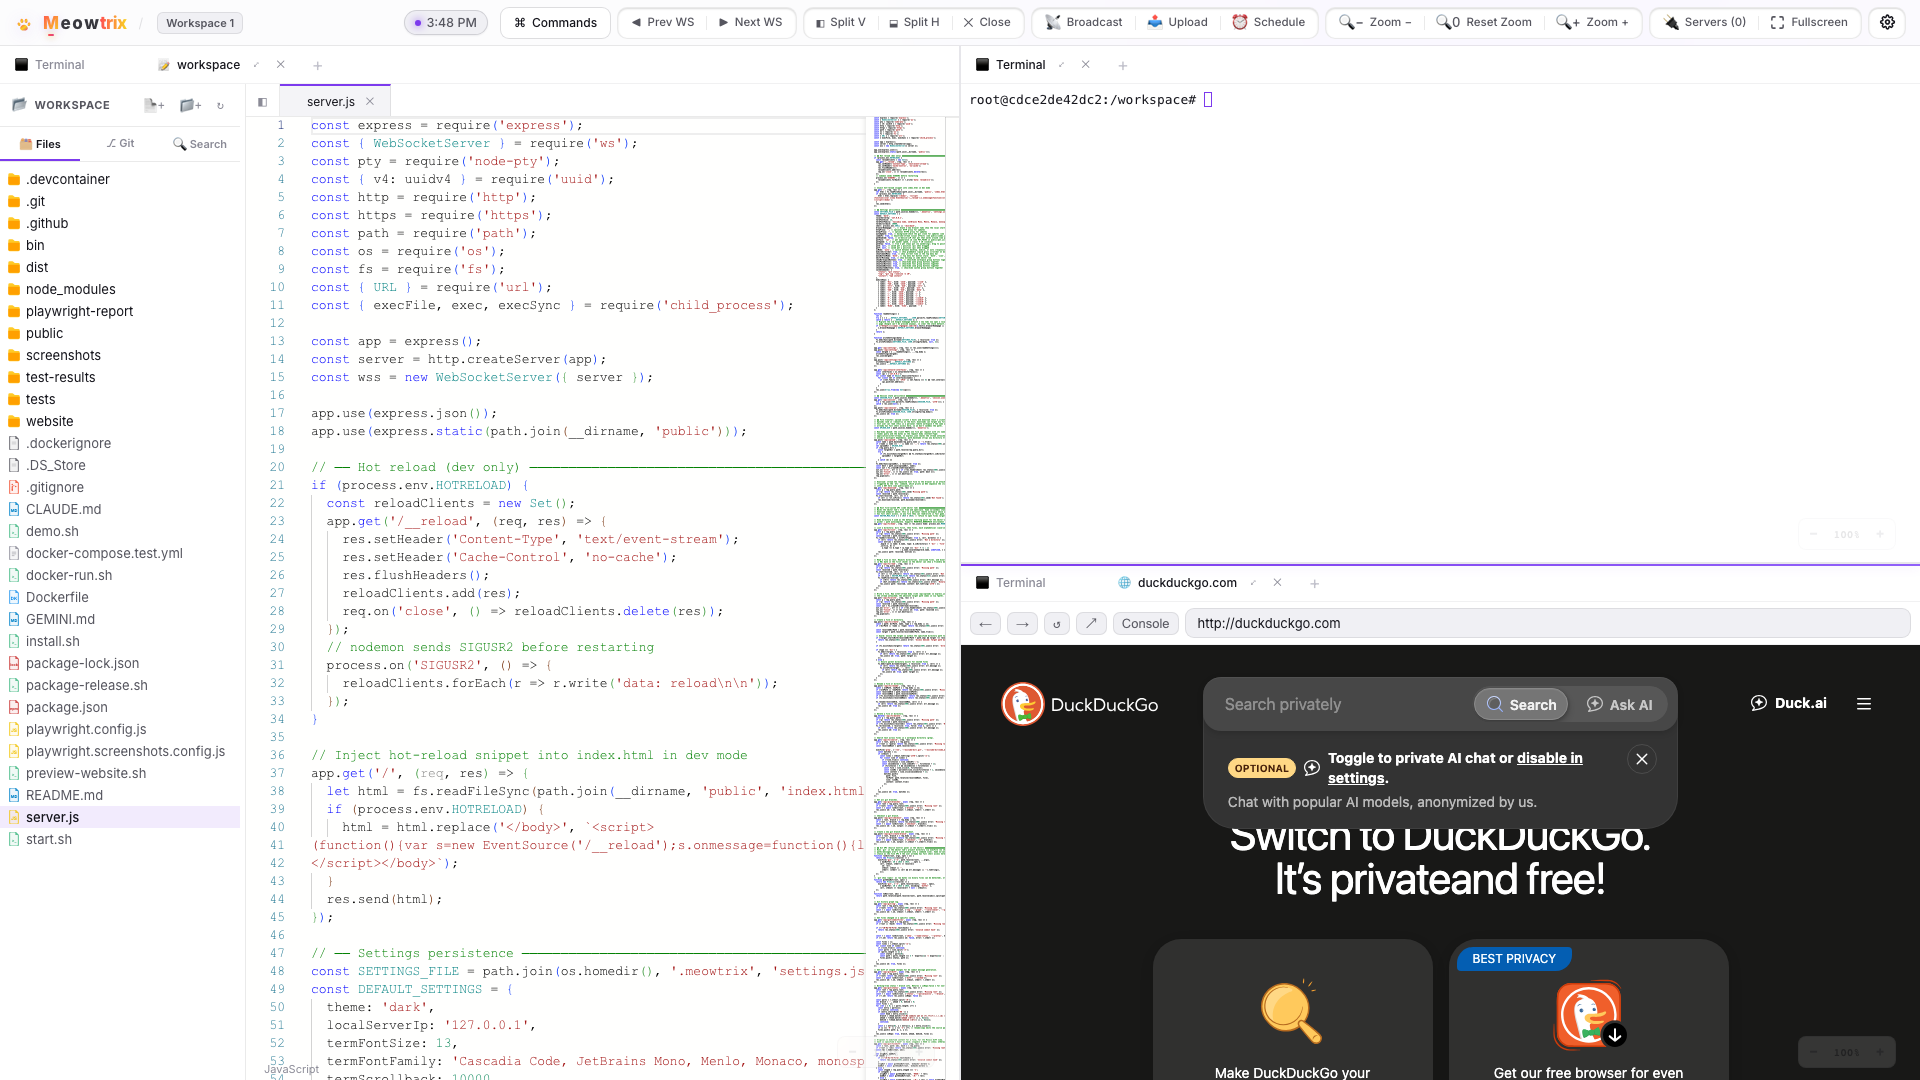
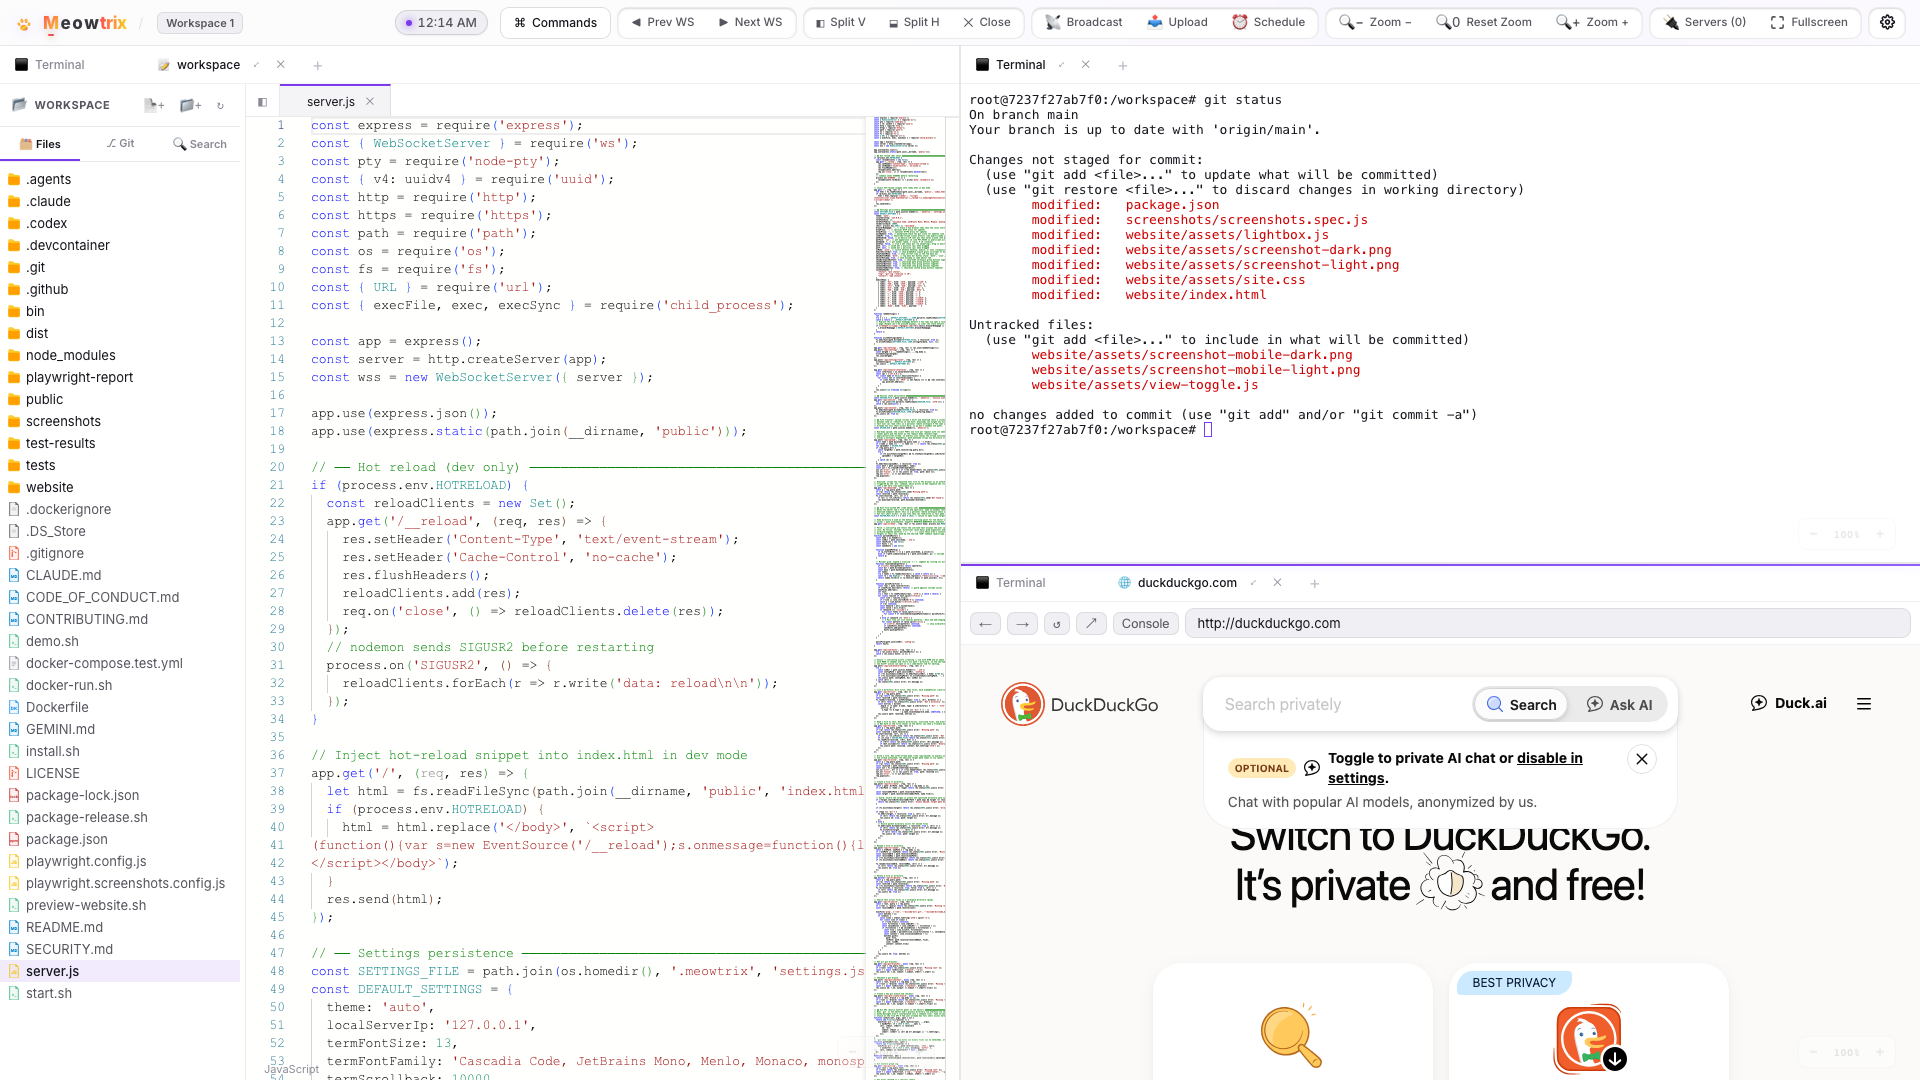
update

diff --git a/website/assets/site.css b/website/assets/site.css
@@ -216,9 +216,128 @@ code, pre, kbd {
 .btn-ghost { background: var(--bg3); color: var(--text); border-color: var(--border3); }
 .btn-ghost:hover { background: var(--bg4); color: var(--text); transform: translateY(-2px); }
 
+/* ── Hero showcase: desktop ↔ mobile preview with a device toggle ─────────────── */
+.hero-showcase { max-width: 1000px; margin: 56px auto 0; }
+
+.view-toggle {
+  display: inline-flex; gap: 4px; margin: 0 auto 28px;
+  padding: 4px; border-radius: 999px;
+  background: var(--bg2); border: 1px solid var(--border);
+}
+.hero-showcase { text-align: center; }
+.view-toggle-btn {
+  display: inline-flex; align-items: center; gap: 7px;
+  padding: 8px 18px; border-radius: 999px;
+  background: transparent; border: none; cursor: pointer;
+  color: var(--text2); font-family: inherit; font-size: 13.5px; font-weight: 600;
+  letter-spacing: -0.01em; transition: all 0.18s var(--ease);
+}
+.view-toggle-btn .vt-ico { font-size: 14px; line-height: 1; }
+.view-toggle-btn:hover { color: var(--text); }
+.view-toggle-btn.active {
+  background: var(--accent); color: #fff;
+  box-shadow: 0 4px 14px var(--accent2);
+}
+
+/* Toggle which device preview is shown. */
+.hero-showcase[data-view="desktop"] .phone-frame { display: none; }
+.hero-showcase[data-view="mobile"] .browser-mockup { display: none; }
+
+/* ── Phone frame (mobile preview) ─────────────────────────────────────────────── */
+.phone-frame {
+  position: relative; margin: 0 auto; text-align: left;
+  width: 300px; max-width: 80vw;
+  aspect-ratio: 390 / 844;
+  padding: 12px; border-radius: 46px;
+  background: linear-gradient(145deg, #2a2d33, #16181c);
+  border: 1px solid var(--border3);
+  box-shadow:
+    0 30px 90px var(--shadow), 0 0 0 1px var(--border2),
+    inset 0 0 0 2px rgba(255,255,255,0.04);
+  transition: transform 0.5s cubic-bezier(0.16, 1, 0.3, 1), box-shadow 0.5s cubic-bezier(0.16, 1, 0.3, 1);
+}
+.phone-frame:hover {
+  transform: translateY(-8px);
+  box-shadow: 0 45px 120px var(--shadow), 0 0 0 1px var(--accent-soft);
+}
+.phone-screen {
+  position: relative; width: 100%; height: 100%;
+  border-radius: 34px; overflow: hidden;
+  background: var(--bg2);
+  display: flex; flex-direction: column;
+}
+
+/* Phone status bar (clock + signal/battery) */
+.mob-statusbar {
+  display: flex; align-items: center; justify-content: space-between;
+  flex-shrink: 0; padding: 7px 22px 3px;
+  background: var(--bg3); color: var(--text);
+  font-size: 11px; font-weight: 700; letter-spacing: 0.02em;
+}
+.mob-status-icons { display: flex; align-items: center; gap: 6px; }
+.mob-signal { display: inline-flex; align-items: flex-end; gap: 1.5px; height: 9px; }
+.mob-signal i { width: 2.5px; background: var(--text); border-radius: 1px; }
+.mob-signal i:nth-child(1) { height: 4px; }
+.mob-signal i:nth-child(2) { height: 6px; }
+.mob-signal i:nth-child(3) { height: 8px; }
+.mob-signal i:nth-child(4) { height: 9px; }
+.mob-5g { font-size: 10px; }
+.mob-battery {
+  position: relative; width: 20px; height: 10px;
+  border: 1.2px solid var(--text); border-radius: 3px; opacity: 0.9;
+}
+.mob-battery::before {
+  content: ''; position: absolute; inset: 1.5px;
+  width: 70%; background: var(--text); border-radius: 1px;
+}
+.mob-battery::after {
+  content: ''; position: absolute; top: 50%; right: -3px; transform: translateY(-50%);
+  width: 1.5px; height: 4px; background: var(--text); border-radius: 0 1px 1px 0; opacity: 0.7;
+}
+
+/* Mobile browser address bar */
+.mob-urlbar {
+  display: flex; align-items: center; gap: 7px;
+  flex-shrink: 0; margin: 6px 10px;
+  padding: 7px 12px; border-radius: 999px;
+  background: var(--bg4); border: 1px solid var(--border);
+  font-size: 11px; color: var(--text2);
+}
+.mob-lock { font-size: 9px; color: var(--green); opacity: 0.85; }
+.mob-url {
+  flex-grow: 1; text-align: center;
+  overflow: hidden; text-overflow: ellipsis; white-space: nowrap;
+  letter-spacing: -0.01em;
+}
+.mob-reload { font-size: 12px; color: var(--text3); }
+
+/* App viewport — the embedded Meowtrix screenshot */
+.mob-viewport {
+  position: relative; flex: 1; min-height: 0;
+  overflow: hidden; cursor: zoom-in;
+  background: var(--bg);
+}
+.mob-viewport img {
+  position: absolute; inset: 0;
+  width: 100%; height: 100%; display: block;
+  object-fit: cover; object-position: top center;
+}
+
+/* Browser bottom toolbar */
+.mob-tabbar {
+  display: flex; align-items: center; justify-content: space-around;
+  flex-shrink: 0; padding: 9px 14px 11px;
+  background: var(--bg3); border-top: 1px solid var(--border2);
+  color: var(--text2); font-size: 17px;
+}
+.mob-nav-btn { opacity: 0.75; line-height: 1; }
+.mob-tabs-btn {
+  width: 13px; height: 13px; border: 1.6px solid currentColor; border-radius: 3px;
+}
+
 /* browser mockup in hero */
 .browser-mockup {
-  max-width: 1000px; margin: 60px auto 0;
+  max-width: 1000px; margin: 0 auto;
   border-radius: var(--radius); overflow: hidden;
   border: 1px solid var(--border3);
   background: var(--bg2);

diff --git a/website/index.html b/website/index.html
@@ -60,6 +60,12 @@
       <a class="btn btn-ghost" href="docs/">Read the docs</a>
     </div>
 
+    <div class="hero-showcase" data-view="desktop">
+    <div class="view-toggle" role="tablist" aria-label="Preview device">
+      <button class="view-toggle-btn active" type="button" data-view="desktop" role="tab" aria-selected="true"><span class="vt-ico">🖥️</span> Desktop</button>
+      <button class="view-toggle-btn" type="button" data-view="mobile" role="tab" aria-selected="false"><span class="vt-ico">📱</span> Mobile</button>
+    </div>
+
     <div class="browser-mockup" aria-label="Meowtrix remote workspace running inside a web browser tab">
       <div class="browser-header">
         <div class="window-controls">
@@ -100,6 +106,36 @@
         <img class="app-screenshot theme-dark" src="assets/screenshot-dark.png" alt="Meowtrix remote workspace in dark theme">
         <img class="app-screenshot theme-light" src="assets/screenshot-light.png" alt="Meowtrix remote workspace in light theme">
       </div>
+    </div>
+
+    <div class="phone-frame" aria-label="Meowtrix workspace running in a mobile browser on a phone">
+      <div class="phone-screen">
+        <div class="mob-statusbar">
+          <span class="mob-time">9:41</span>
+          <span class="mob-status-icons">
+            <span class="mob-signal"><i></i><i></i><i></i><i></i></span>
+            <span class="mob-5g">5G</span>
+            <span class="mob-battery"></span>
+          </span>
+        </div>
+        <div class="mob-urlbar">
+          <span class="mob-lock">🔒</span>
+          <span class="mob-url">meowtrix.your-server.local:9123</span>
+          <span class="mob-reload">↻</span>
+        </div>
+        <div class="mob-viewport">
+          <img class="app-screenshot theme-dark" src="assets/screenshot-mobile-dark.png" alt="Meowtrix mobile workspace in dark theme">
+          <img class="app-screenshot theme-light" src="assets/screenshot-mobile-light.png" alt="Meowtrix mobile workspace in light theme">
+        </div>
+        <div class="mob-tabbar">
+          <span class="mob-nav-btn">‹</span>
+          <span class="mob-nav-btn">›</span>
+          <span class="mob-nav-btn">⤴</span>
+          <span class="mob-nav-btn mob-tabs-btn"></span>
+          <span class="mob-nav-btn">⋯</span>
+        </div>
+      </div>
+    </div>
     </div>
   </header>
 
@@ -271,6 +307,7 @@
     <p>🐾 Meowtrix — a browser-based remote vibe engineering tool.</p>
   </footer>
   <script src="assets/theme.js"></script>
+  <script src="assets/view-toggle.js"></script>
   <script src="assets/lightbox.js"></script>
 </body>
 </html>

diff --git a/website/assets/view-toggle.js b/website/assets/view-toggle.js
@@ -1,0 +1,34 @@
+/* Meowtrix project site — hero device preview toggle.
+   Switches the hero showcase between the desktop browser mockup and the phone
+   frame by flipping `data-view` on `.hero-showcase`. The theme (light/dark) is
+   handled separately by theme.js; each device preview holds both theme images
+   and CSS shows the one matching the active `data-theme`. */
+(function () {
+  function init() {
+    var showcase = document.querySelector('.hero-showcase');
+    if (!showcase) return;
+    var btns = showcase.querySelectorAll('.view-toggle-btn');
+    if (!btns.length) return;
+
+    function select(view) {
+      showcase.setAttribute('data-view', view);
+      btns.forEach(function (b) {
+        var on = b.getAttribute('data-view') === view;
+        b.classList.toggle('active', on);
+        b.setAttribute('aria-selected', on ? 'true' : 'false');
+      });
+    }
+
+    btns.forEach(function (b) {
+      b.addEventListener('click', function () {
+        select(b.getAttribute('data-view'));
+      });
+    });
+  }
+
+  if (document.readyState === 'loading') {
+    document.addEventListener('DOMContentLoaded', init);
+  } else {
+    init();
+  }
+})();

diff --git a/screenshots/screenshots.spec.js b/screenshots/screenshots.spec.js
@@ -201,5 +201,36 @@ test.describe('Generate Showcase Screenshots', () => {
     const screenshotLightPath = path.resolve(__dirname, '../website/assets/screenshot-light.png');
     await page.screenshot({ path: screenshotLightPath });
     console.log(`Saved light theme screenshot to ${screenshotLightPath}`);
+
+    // 8. Mobile screenshots. Maximize the terminal pane and drop to a phone
+    // viewport so the capture is a single, full-bleed pane in the app's mobile
+    // layout — far cleaner inside the landing page's phone frame than the 3-pane
+    // desktop split squeezed onto a narrow screen. The terminal already shows
+    // `git status` output from step 4, which reads well on a phone.
+    await pane1.click(); // focus the top-right terminal pane
+    await page.evaluate(() => { if (typeof activePane !== 'undefined' && activePane) toggleMaximizePane(activePane); });
+    // A phone viewport (~iPhone 12/13/14 logical size). Width <= 640 trips the
+    // app's mobile detection, which toggles `mobile-ui` and reflows for touch.
+    await page.setViewportSize({ width: 390, height: 844 });
+    // Let the mobile reflow run and the terminal refit/reflow to the new width.
+    await page.waitForTimeout(2000);
+
+    // Currently on Light theme — capture mobile light first.
+    const screenshotMobileLightPath = path.resolve(__dirname, '../website/assets/screenshot-mobile-light.png');
+    await page.screenshot({ path: screenshotMobileLightPath });
+    console.log(`Saved mobile light theme screenshot to ${screenshotMobileLightPath}`);
+
+    // Switch to Dark theme and capture mobile dark.
+    await page.evaluate(() => openSettings());
+    await expect(settingsPanel).toBeVisible();
+    await themeSelect.selectOption('dark');
+    await expect(page.locator('html')).toHaveAttribute('data-theme', 'dark');
+    await page.locator('#settings-close').click();
+    await expect(settingsPanel).not.toBeVisible();
+    await page.waitForTimeout(2000);
+
+    const screenshotMobileDarkPath = path.resolve(__dirname, '../website/assets/screenshot-mobile-dark.png');
+    await page.screenshot({ path: screenshotMobileDarkPath });
+    console.log(`Saved mobile dark theme screenshot to ${screenshotMobileDarkPath}`);
   });
 });

diff --git a/website/assets/lightbox.js b/website/assets/lightbox.js
@@ -4,8 +4,10 @@
    shown image follows the active theme (the visible .app-screenshot). */
 (function () {
   function init() {
-    var wrap = document.querySelector('.screenshot-wrapper');
-    if (!wrap) return;
+    // Both the desktop browser mockup and the phone frame hold a screenshot the
+    // user can click to enlarge; only one is visible at a time (device toggle).
+    var wraps = document.querySelectorAll('.screenshot-wrapper, .mob-viewport');
+    if (!wraps.length) return;
 
     var overlay = document.createElement('div');
     overlay.className = 'lightbox';
@@ -24,7 +26,7 @@
     overlay.appendChild(close);
     document.body.appendChild(overlay);
 
-    function visibleShot() {
+    function visibleShot(wrap) {
       var shots = wrap.querySelectorAll('.app-screenshot');
       for (var i = 0; i < shots.length; i++) {
         if (shots[i].offsetParent !== null) return shots[i];
@@ -32,8 +34,8 @@
       return shots[0];
     }
 
-    function open() {
-      var shot = visibleShot();
+    function open(wrap) {
+      var shot = visibleShot(wrap);
       if (!shot) return;
       img.src = shot.currentSrc || shot.src;
       img.alt = shot.alt || 'Enlarged screenshot';
@@ -46,7 +48,9 @@
       document.body.style.overflow = '';
     }
 
-    wrap.addEventListener('click', open);
+    wraps.forEach(function (wrap) {
+      wrap.addEventListener('click', function () { open(wrap); });
+    });
     overlay.addEventListener('click', hide);
     document.addEventListener('keydown', function (e) {
       if (e.key === 'Escape' && overlay.classList.contains('open')) hide();